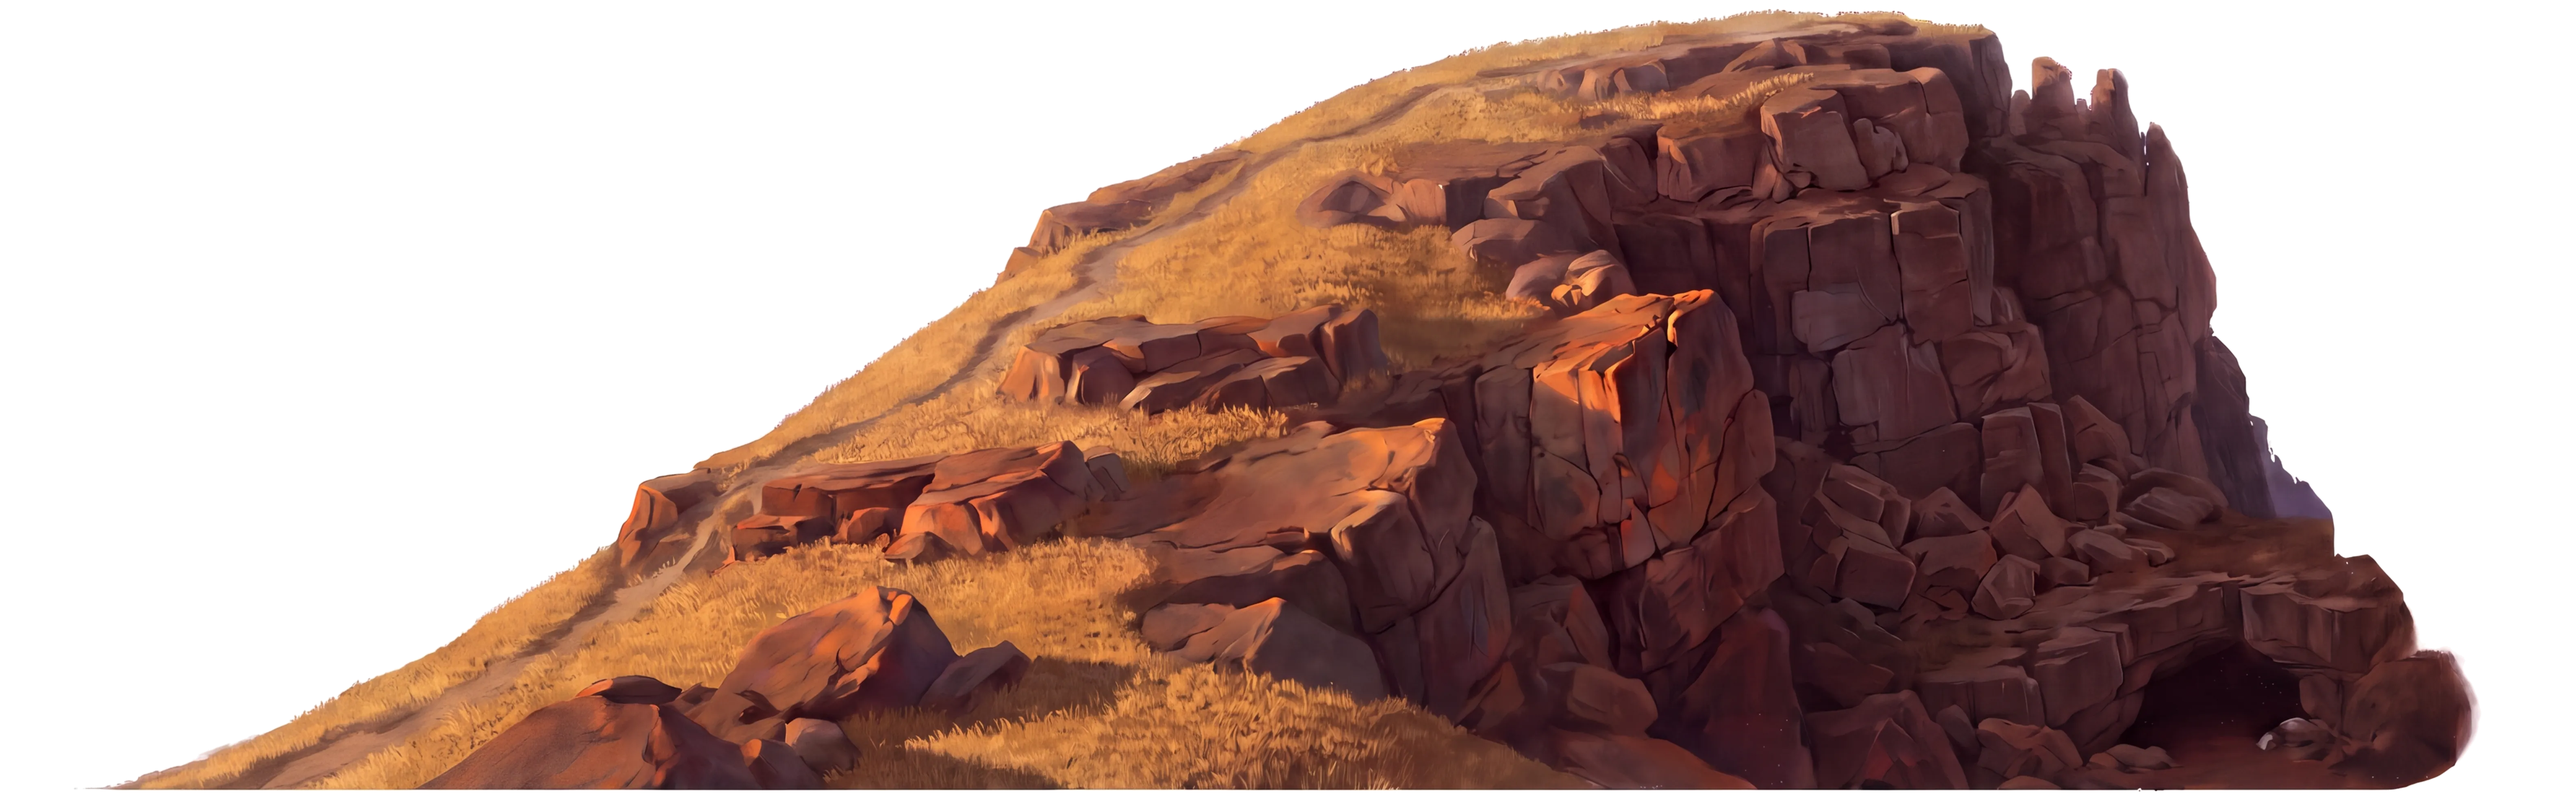
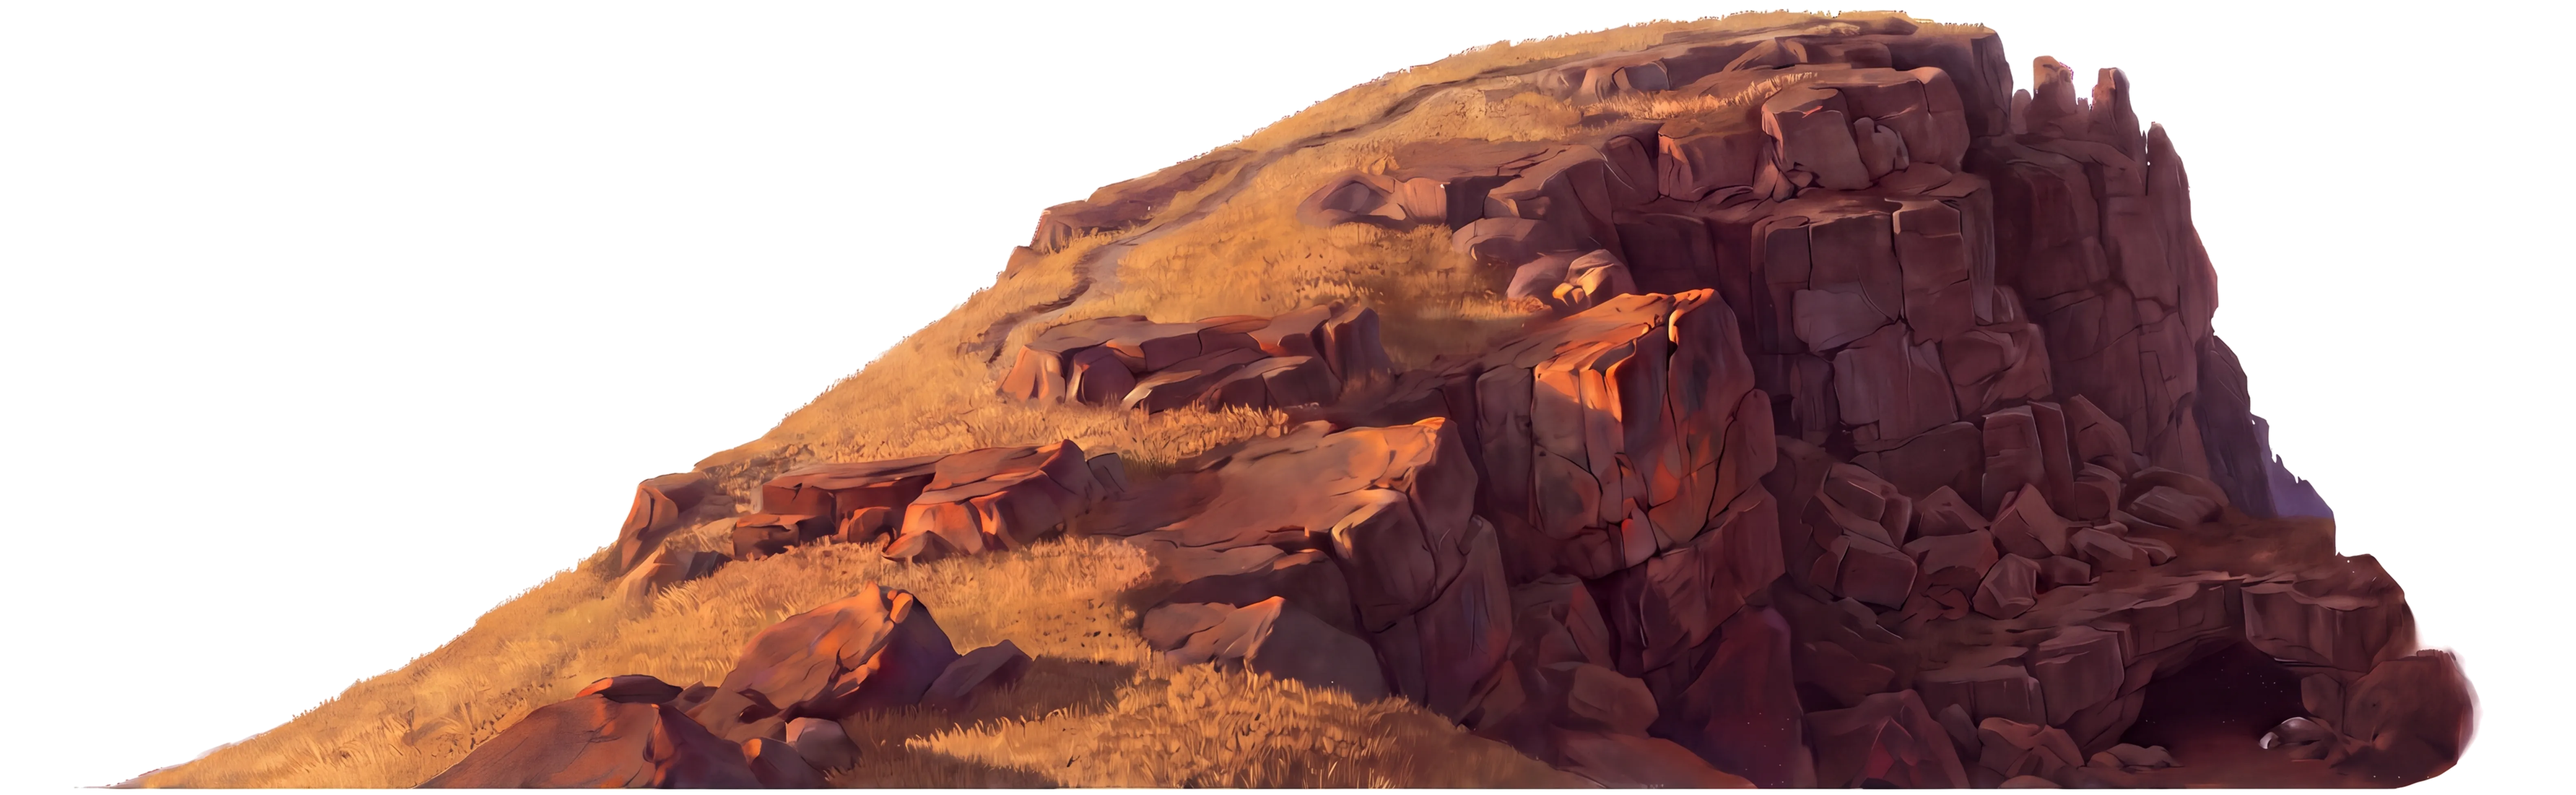
Build 615: Level 5 ?look=f, track along the edge, face track painted out
Claude-Session: https://claude.ai/code/session_017HrTSCxzgPwtaNLRtpHiFb

diff --git a/cross.js b/cross.js
@@ -86,8 +86,8 @@ const CR = (() => {
   // the painting's own skyline (PIN_TAB, painting units at SK_H 1080 from painting x 3160 every 8, from its alpha before
   // the left fade) is the land's outline (pinDraw) and, smoothed, the line he walks on (gh); toward the painting's left
   // end both blend into the drawn ramp over its fade (PIN_W)
-  const PIN_ON = /[?&]look=f\b/.test(location.search), HP_TOP = PIN_ON ? -1098.78 : -1089.42, HP_H = PIN_ON ? 1102.16 : 1093.75, HP_X = PIN_ON ? 2064.71 : 3149.64, HP_W = PIN_ON ? 3564.71 : 2478.34;
-  const PIN_TAB = [0,0,0,0,0,0,0,0,0,0,0,0,8,0,8,8,9,10,12,11,14,19,17,24,28,30,32,33,35,38,39,42,45,48,56,59,62,65,68,68,71,75,78,81,82,86,88,92,96,99,109,110,114,118,122,125,133,132,141,146,152,157,155,160,163,165,169,171,174,179,183,186,190,195,197,204,207,212,218,224,228,236,244,251,255,260,264,272,272,275,283,287,290,294,302,306,308,310,315,322,324,328,335,342,344,348,362,377,390,420,432,435,437,440,442,442,443,444,445,456,461,462,469,473,475,477,480,482,485,488,491,496,502,509,515,525,527,531,538,541,550,556,566,568,570,574,577,586,586,596,600,605,612,616,622,631,632,638,645,647,654,656,661,666,673,676,682,691,697,697,701,709,722,735,750,757,758,767,785,802,810,813,815,817,818,820,820,825,834,839,841,843,845,847,850,851,852,855,858,861,865,868,870,874,876,879,882,886,887,895,896,901,901,905,910,910,918,919,923,928,930,936,940,945,945,950,953,959,961,964,968,972,976,980,982,983,991,990,992,995,1001,1002,1004,1005,1008,1009,1011,1014,1016,1019,1023,1023,1028,1030,1033,1033,1032,1038,1040,1042,1041,1038,1042,1045,1044,1047,1046,1049,1049,1049,1053,1050,1054,1057,1056,1054,1056,1058,1059,1061,1063,1063,1065,1066,1066,1070,1072,1071,1068,1068,1069,1068,1070,1073,1075,1075,1072,1076,1077,1079,1081,1084,1085,1084,1085,1086,1085,1085,1084,1082,1083,1082,1083,1082,1081,1080,1077,1083,1082,1084,1083,1082,1084,1084,1084,1083,1083,1082,1082,1076,1073,1072,1072,1071,1066,1066,1067,1066,1065,1066,1065,1064,1064,1059,1054,1041,1012,989,975,975,966,1019,1021,1021,1018,1012,1008,1002,956,963,954,978,1003,1004,1005,1004,999,985,941,916,913,931,927,920,906,891,879,857,790,774,756,740,721,628,620,612,601,582,549,523,520,511,478,468,451,444,439,433,432,421,411,402,393,331,330,327,329,330,331,329,321,312,303,295,285,265,254,231,202,201,200,200,201,196,191,170,156,141,0,0,0,0,0,0,0,0,0,0,0,0,0,0,0,0], PIN0 = 2073, PIN1 = PIN0 + 8 * (PIN_TAB.length - 1);
+  const PIN_ON = /[?&]look=f\b/.test(location.search), HP_TOP = PIN_ON ? -1097.65 : -1089.42, HP_H = PIN_ON ? 1101.03 : 1093.75, HP_X = PIN_ON ? 2064.71 : 3149.64, HP_W = PIN_ON ? 3564.71 : 2478.34;
+  const PIN_TAB = [0,0,0,0,0,0,0,0,0,0,0,0,8,0,8,9,9,10,12,12,15,19,20,25,28,30,33,35,37,38,40,42,45,48,56,60,63,66,69,69,71,74,78,81,83,86,89,93,97,100,107,111,114,116,120,128,130,129,140,146,152,159,156,159,163,165,170,170,173,178,186,186,194,195,197,204,206,212,219,223,228,235,245,251,255,262,266,272,271,275,283,285,288,294,299,305,309,311,309,323,326,327,334,341,342,348,360,377,393,422,432,435,437,440,441,442,443,443,444,455,460,464,469,473,474,477,479,482,485,488,491,496,502,507,514,527,529,533,538,540,547,555,563,567,574,575,578,583,586,595,600,608,612,617,623,628,634,637,642,646,652,654,659,665,674,676,681,691,697,698,700,705,722,731,751,758,757,760,780,802,810,813,815,817,819,820,821,823,832,838,841,843,846,847,850,851,853,856,859,862,865,868,869,874,877,880,883,887,887,894,896,898,901,904,911,911,918,921,922,928,931,937,938,943,944,950,953,959,960,963,968,972,975,980,982,983,986,990,992,999,999,1002,1003,1007,1008,1009,1010,1013,1016,1018,1024,1023,1028,1032,1034,1035,1036,1037,1041,1043,1043,1036,1040,1044,1045,1044,1045,1049,1047,1050,1053,1050,1054,1055,1055,1054,1055,1060,1059,1061,1064,1062,1067,1067,1067,1072,1070,1072,1070,1070,1070,1068,1070,1075,1076,1075,1075,1078,1077,1081,1083,1084,1084,1082,1081,1081,1084,1086,1085,1081,1081,1083,1081,1080,1084,1081,1076,1082,1082,1082,1084,1084,1083,1084,1084,1084,1084,1084,1084,1077,1073,1072,1072,1071,1067,1064,1066,1066,1064,1067,1065,1066,1065,1060,1056,1045,1014,994,974,975,969,1018,1021,1021,1019,1013,1010,1005,971,963,962,977,1001,1004,1004,1005,1000,989,944,927,915,928,928,923,909,894,882,862,802,778,760,744,726,630,622,613,604,585,551,523,520,515,469,469,454,445,435,434,433,425,413,405,395,372,330,327,329,330,331,330,324,314,305,296,287,269,254,237,209,203,200,200,201,200,194,186,159,146,118,0,0,0,0,0,0,0,0,0,0,0,0,0,0,0], PIN0 = 2073, PIN1 = PIN0 + 8 * (PIN_TAB.length - 1);
   const PIN_S = PIN_TAB.map((v, i) => { let a = 0, n = 0; for (let j = -10; j <= 10; j++) { const q = PIN_TAB[i + j]; if (q != null) { a += q; n++; } } return a / n; });
   const pinS = () => SK_H / 1080, pinW = xp => pinS() * (xp - 4380) + SK_X;
   function pinAt(T, x) { const s = pinS(), xp = 4380 + (x - SK_X) / s; if (xp < PIN0) return -1; if (xp >= PIN1) return 0;
@@ -220,7 +220,7 @@ const CR = (() => {
     // the hill painted by the image model (round 2 of the owner's hill): rounded weathered rock, toned dark grey, its left
     // end faded into the drawn ramp; cropped to the rock at 1.5 px a world unit (at SK_H 1080): world x 2834 to 5654, height 1089 down to 2 below the ground
     // ?look=f: the hill painted as Friedrich's crag (build 606), laid on the same outline as the old painting
-    if (HP_ON) loadImg(LOOKF ? 'hill-crag.webp?v=611' : 'hill-cross.webp?v=601').then(im => { HPAINT = im; }).catch(() => {});
+    if (HP_ON) loadImg(LOOKF ? 'hill-crag.webp?v=615' : 'hill-cross.webp?v=601').then(im => { HPAINT = im; }).catch(() => {});
     // the burning hill's own painted rock (Level 3), made a grey tile as hill.js makes it, laid over the hill in 'overlay'
     loadImg('hill-rock.webp').then(rock => { const sx = 720, sy = 540, w = 780, h = 600, t = document.createElement('canvas'); t.width = w; t.height = h; const q = t.getContext('2d'); q.drawImage(rock, sx, sy, w, h, 0, 0, w, h);
       const d = q.getImageData(0, 0, w, h), D = d.data; let m = 0; for (let i = 0; i < D.length; i += 4) m += D[i] * .3 + D[i + 1] * .59 + D[i + 2] * .11; m /= D.length / 4;
@@ -921,6 +921,21 @@ const CR = (() => {
       }
       const fg = c.createLinearGradient(0, -260, 0, 8); fg.addColorStop(0, css(dark, 0)); fg.addColorStop(.6, css(dark, .22)); fg.addColorStop(1, css(dark, .5));
       c.fillStyle = fg; c.fillRect(x0, -260, x1 - x0, 2300);
+      // ?look=f: a thin worn track along the edge where his feet go (owner: "put path next to edge so he can walk with sky
+      // behind him"): a band of pale trodden earth just under his walking line, its width and strength wandering along it,
+      // from the hill's foot to the crown, lit as the hill is lit
+      if (LOOKF) {
+        const ta = Math.max(x0, SLOPE0 - 80), tb = Math.min(x1, CROSS_X - 60);
+        if (tb > ta) {
+          const wob = x => .5 + .3 * Math.sin(x * .013) + .2 * Math.sin(x * .041 + 1.7);
+          const top = [], bot = [];
+          for (let x = ta; x <= tb; x += 6) { const y = -gh(x); top.push([x, y + 3 + 2 * Math.sin(x * .03)]); bot.push([x, y + 9 + 9 * wob(x)]); }
+          const tc = mix(mix([70, 62, 60], [120, 100, 84], dawn), [214, 176, 128], gold), tg = c.createLinearGradient(ta, 0, tb, 0);
+          for (let i = 0; i <= 24; i++) { const x = ta + (tb - ta) * i / 24, e = Math.min(1, (x - SLOPE0 + 80) / 260, (CROSS_X - 60 - x) / 200); tg.addColorStop(i / 24, css(tc, Math.max(0, e) * (.16 + .2 * wob(x * 1.7)))); }
+          c.beginPath(); c.moveTo(...top[0]); for (const p of top) c.lineTo(...p); for (let i = bot.length - 1; i >= 0; i--) c.lineTo(...bot[i]); c.closePath();
+          c.fillStyle = tg; c.fill();
+        }
+      }
     }
     if (R.l && !HPAINT) { c.globalCompositeOperation = 'screen'; c.globalAlpha = .55 + .2 * dawn + .25 * gold; c.drawImage(R.l, R.x, R.y, R.w, R.h); c.globalAlpha = 1; c.globalCompositeOperation = 'source-over'; }
     // the painted rock's grain over it all, as on Level 3's crags

diff --git a/index.html b/index.html
@@ -184,7 +184,7 @@ body.portrait:not(.playing) #rot{display:none}
   </div>
   <button id="snd" aria-label="Sound on or off">♪</button>
   <button id="autoWalk" aria-label="He walks on by himself"><svg viewBox="0 0 24 24"><path d="M5 6l6 6-6 6M12 6l6 6-6 6"/></svg></button>
-  <div id="build">build 614 · Nov 24 2026</div>
+  <div id="build">build 615 · Nov 24 2026</div>
 </div></div>
 <div id="rot">Turn your phone sideways for a bigger picture</div>
 <script>
@@ -2900,7 +2900,7 @@ document.getElementById('on2').onclick = () => SL.on ? go3() : HL.on ? goRoom('d
 <script src="rooms.js?v=571"></script>
 <script src="heaven.js?v=547"></script>
 <script src="keepsakes.js?v=505"></script>
-<script src="cross.js?v=614"></script>
+<script src="cross.js?v=615"></script>
 <script src="editor.js?v=609"></script>
 </body>
 </html>

diff --git a/story-lab.html b/story-lab.html
@@ -3,4 +3,4 @@
 <title>Pilgrim's Progress</title>
 <!-- The game moved to the main page in build 119. This page only sends old links (and Home Screen icons) on to it. -->
 <script>location.replace('./' + location.search + location.hash);</script>
-<p><a href="./">Pilgrim's Progress</a> <span id="build">build 614 · Nov 24 2026</span></p>
+<p><a href="./">Pilgrim's Progress</a> <span id="build">build 615 · Nov 24 2026</span></p>

diff --git a/CLAUDE.md b/CLAUDE.md
@@ -40,7 +40,7 @@ A gentle side-scrolling story walk for kids ages 7 to 10, following Bunyan's *Th
 ## Working with the owner
 
 - **Repo `Twhidbey/pilgrims-progress`, branch `main`. Pushing `main` publishes the game** (GitHub Pages, https://twhidbey.github.io/pilgrims-progress/, 1 to 2 minutes). Commit and push after every change, then tell the owner it is live; a phone may show an old copy, so suggest `?v=N`. **Always give two links when a build is live (owner, build 187: "can you output [the editor link] by default and make note in notes"):** the game, `https://twhidbey.github.io/pilgrims-progress/?v=N`, and the editor link, `https://twhidbey.github.io/pilgrims-progress/?edit&v=N` (skip arrows, see Testing); add `&level=2` or `&level=3` when the change is in that level.
-- **Build stamp** (`id="build"`, bottom right): `build N · date` in `index.html` and `story-lab.html`. Bump N on **every** push that changes the game, so one number means one push. Keep the form `id="build">... build N` (the page's self-update reads it). **Currently build 614.** The two script tags at the end of `index.html` carry `?v=N` (`slough.js?v=`, `hill.js?v=`): set them to the build that last changed each file, so phones fetch the new copy. Several chats push at once: `git fetch` and rebase on `origin/main` just before pushing, and take the next number after whatever is there.
+- **Build stamp** (`id="build"`, bottom right): `build N · date` in `index.html` and `story-lab.html`. Bump N on **every** push that changes the game, so one number means one push. Keep the form `id="build">... build N` (the page's self-update reads it). **Currently build 615.** The two script tags at the end of `index.html` carry `?v=N` (`slough.js?v=`, `hill.js?v=`): set them to the build that last changed each file, so phones fetch the new copy. Several chats push at once: `git fetch` and rebase on `origin/main` just before pushing, and take the next number after whatever is there.
 - **SPEND AS LITTLE AS POSSIBLE (owner, build 106: "can you minimize spending - it's been pretty expensive for me last few days").** Video about 56 cents a try; a picture about 15 cents (`gemini-3-pro-image`); voice about a cent a line. **Before any paid call: say the cost and wait for a yes; keep the running total in `HANDOFF.md`.** Ways to save, in order: (1) do it in code first (breathing, sway, cloth and hair movement, small moves by warping a still, mirroring, tinting, reusing a figure); (2) build first and last frames from frames we already have; (3) draft pictures on `gemini-2.5-flash-image` (about a third of the price), the pro model only for the final; (4) show the owner a still before any video; (5) get two clips from one video (play backwards or back and forth); (6) write video prompts that pass the safety filter first time (no "sunk", "drowning", "thrashing", "desperate", "frightened"; say "thick sticky mud", "heaves", "cross and grumbling"); (7) a shorter video if the API offers one cheaper (not yet checked).
 - **Keep `CLAUDE.md` and `HANDOFF.md` updated after every change.** The repo is public: no names, emails or other personal details in notes, code or commits.
 - **Players:** kids 7 to 10, mostly on an iPhone. Gentle: no lives, no game over, read-aloud words, short simple sentences.
@@ -946,5 +946,7 @@ Counted by episode from the book's section numbers (later long conversations shr
 **Build 613: HE WALKS THE TOP EDGE AGAIN, SKY BEHIND HIM (owner: "I liked his profile on the edge. Can we put path next to edge so he can walk with sky behind him like before").** Under `?look=f` his walking line is the painting's skyline again (smoothed, `PIN_S`), not the painted track across the face; build 612's traced track stays behind `?track=1` (`PATH_ON`). Offered next (about 25 cents, waiting on the owner's yes): repaint the track along the top edge, using the scale-figure guide that worked in build 611. Nothing spent.
 
 **Build 614: `?look=f` DARK BEFORE SUNRISE (owner: "it should be dark like before because he's going up before sunrise").** The painted hill is laid under a much darker 'multiply' until the sun breaks (`[40,36,44]` before dawn, `[74,62,60]` at dawn, the painting's own colours only with `gold`), and the look=f sky and mist before dawn are a dusky blue-grey (`pre`, `dw` in `sky()` and the ridges' mist), so the climb is pre-dawn dark; the sunrise and after are unchanged. Nothing spent.
+
+**Build 615: THE TRACK ACROSS THE FACE PAINTED OUT, A WORN TRACK ALONG THE EDGE, FOR `?look=f` (owner: "Yes please do can run a couple times if need be", to a repaint putting the track beside the edge where he walks; two `gemini-3-pro-image-preview` edits, 4K, about 50 cents).** Guide sketch as build 611 (scale figures at his true size on the edge and a thin red line 16 painting px under the skyline; `ramp/sketch5.py` in the session scratchpad). Run 1 (from build 611's painting) removed the winding track from the lower slope and smoothed the upper skyline, but painted no track along the line and left a short stretch of the old track high up near the edge; run 2 (from run 1) put a dark winding track back across the face: not used. **Lesson: the model will not paint a track ALONG an edge it is told to keep; it paints tracks across the face.** So run 1's painting is in (`assets/hill-crag.webp?v=615`, cut by `ramp/cut.py paint5.png`, `HP_*` and `PIN_TAB` updated), and the track along the edge is drawn in code (`land()`, under `LOOKF`): a thin band of pale trodden earth 3 to 18 units under his walking line (`gh`), its width and strength wandering, from the hill's foot to just short of the cross, lit with the dawn. Before and after stills shown; playtest 5 reaches the end card. Spent: about 50 cents.
 
 A first finish line: **Level 5, the Cross** (the burden carried since the first screen falls off), so Levels 1 to 5 stand as a whole game. Could be about 14 by also joining the Delectable Mountains with Ignorance, and the Enchanted Ground into the last level. Rough size: about $3 a level for pictures, videos and voices, more where there are many new people.

diff --git a/HANDOFF.md b/HANDOFF.md
@@ -244,6 +244,8 @@ The game is `index.html` (Level 1 in the page, Level 2 in `slough.js`; no build 
 
 ## START HERE (rewritten at build 140, Nov 16 2026)
 
+**Build 615 (art direction chat): `?look=f` the winding track across the face painted out (one Google edit kept of two, about 50 cents in all), a faint worn track drawn in code along the edge where he walks. Spent: about 50 cents.**
+
 **Build 614 (art direction chat): `?look=f` the climb dark before sunrise. Nothing spent.**
 
 **Build 613 (art direction chat): `?look=f` he walks the top edge again (the track walk behind `?track=1`); next asked: repaint the track along the edge, about 25 cents. Nothing spent.**
